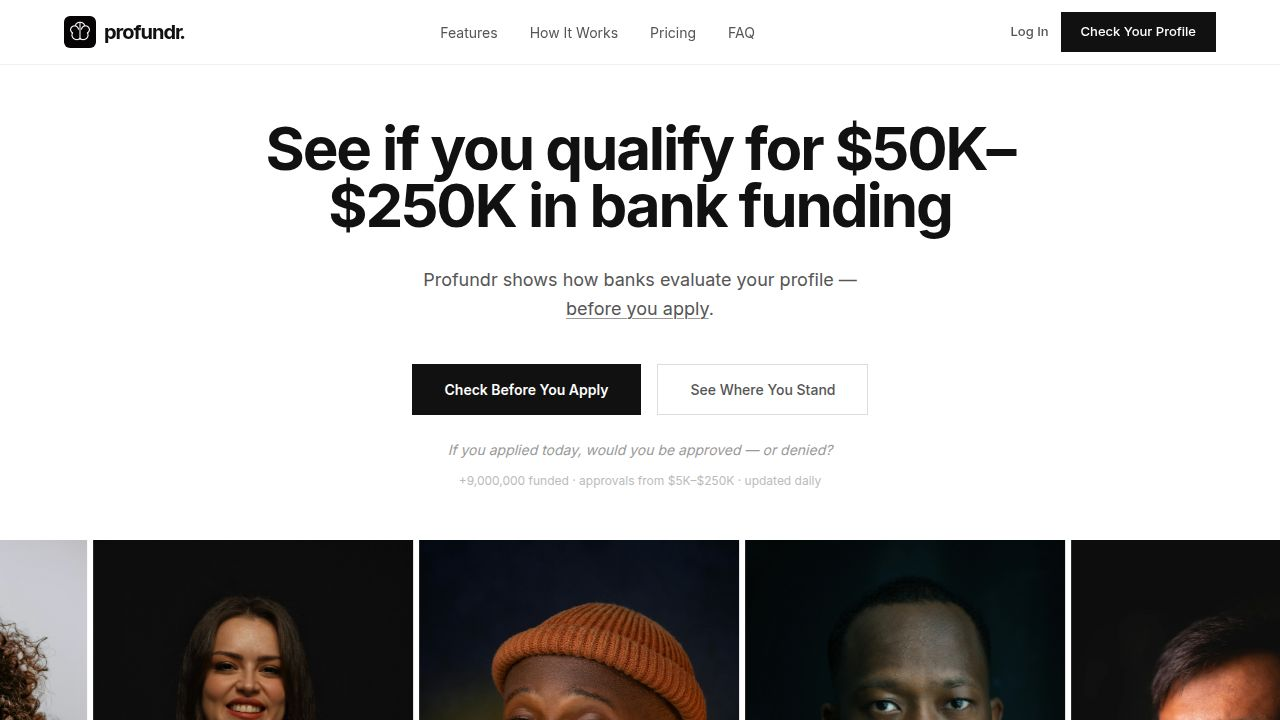
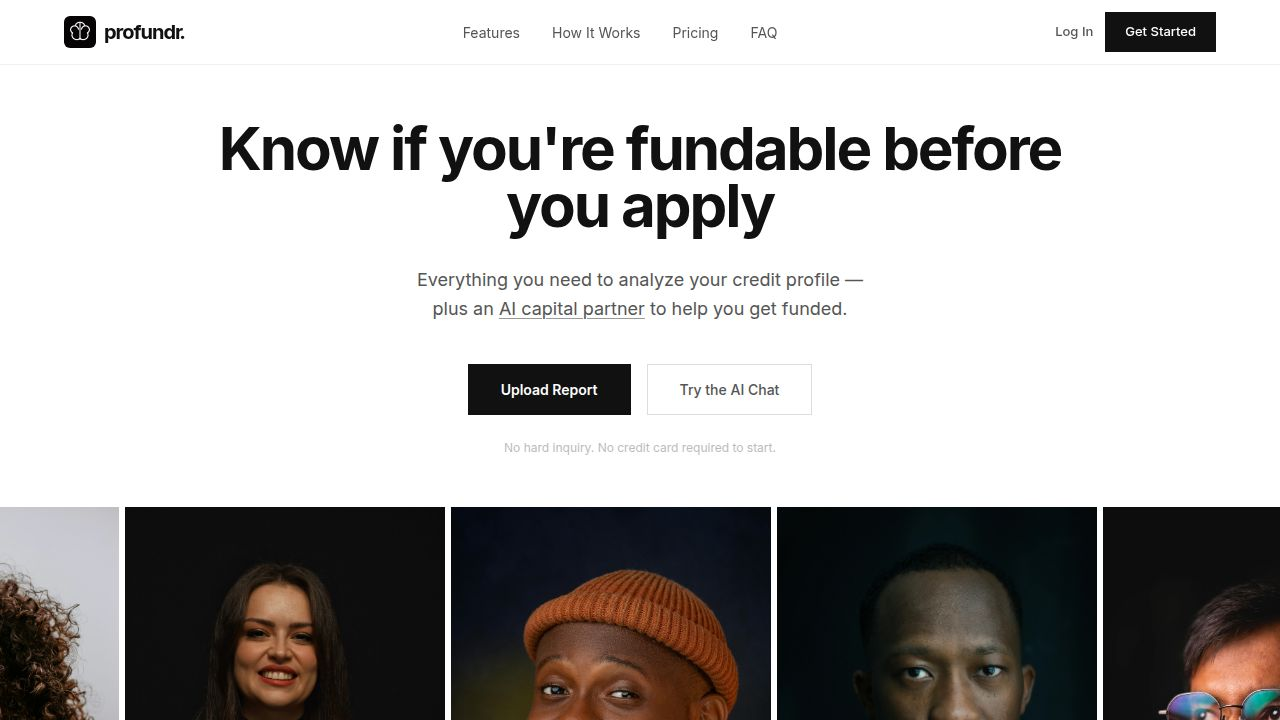
Update website copy to reflect current product messaging
Reverts landing page content to the published version and updates button text from "Check Your Profile" to "Get Started".

Replit-Commit-Author: Agent
Replit-Commit-Session-Id: e8a1cf4c-ae82-492b-91f8-46b21dc24bf7
Replit-Commit-Checkpoint-Type: full_checkpoint
Replit-Commit-Event-Id: ac4d3ec4-bbf0-4598-b30d-846dfed1b4ea
Replit-Commit-Screenshot-Url: https://storage.googleapis.com/screenshot-production-us-central1/e2c02e96-e3a9-4101-9f6c-32d026c7e8ac/e8a1cf4c-ae82-492b-91f8-46b21dc24bf7/kDloWb6
Replit-Helium-Checkpoint-Created: true

diff --git a/client/src/pages/landing.tsx b/client/src/pages/landing.tsx
@@ -4863,13 +4863,11 @@ export default function LandingPage() {
     ];
 
     const faqs = [
-      { q: "How does Profundr help me get funding?", a: "Profundr shows how banks evaluate your profile before you apply. It tells you if you're likely to be approved, how much you may qualify for, and what's holding you back." },
-      { q: "How much funding can I qualify for?", a: "Profundr estimates your potential approval range based on your current profile and shows what's realistically accessible from banks." },
-      { q: "Will this affect my credit?", a: "No. Checking your profile with Profundr does not impact your credit." },
-      { q: "Is this guaranteed approval?", a: "No. But it shows how lenders are likely to evaluate your profile, so you can apply at the right time with higher confidence." },
-      { q: "What if I'm not ready yet?", a: "Profundr shows exactly what's holding you back and what to fix before applying, so you can improve your approval odds." },
-      { q: "Why does this work?", a: "Banks approve profiles based on patterns — balances, inquiries, timing, and history. Profundr analyzes those same signals before you apply." },
-      { q: "When should I check my profile?", a: "Before every application. Timing and profile signals change constantly — and applying at the wrong time can reduce your approval odds instantly." },
+      { q: "Is this a lender?", a: "No. Profundr is a capital intelligence platform. We analyze your credit and financial profile to show you where you stand, what to fix, and which lenders are most likely to approve you. We never lend money or run hard inquiries." },
+      { q: "How does the AIS score work?", a: "Your Approval Index Score is calculated from 23 data points that banks evaluate during underwriting — including utilization, payment history, account age, inquiry velocity, and derogatory marks. Upload your bureau report and get your score in seconds." },
+      { q: "What makes this different from Credit Karma?", a: "Credit Karma shows you a Vantage score and serves you ads. Profundr analyzes your full bureau data the way a bank underwriter would, generates FCRA-compliant dispute letters, runs capital simulations, and matches you with lenders based on real approval data." },
+      { q: "Is my data safe?", a: "Yes. All data is encrypted with AES-256 at rest and TLS 1.3 in transit. Your information is never sold. You can request full data deletion at any time." },
+      { q: "What's included in each plan?", a: "Basic ($25/mo) includes AI chat and your AIS score. Repair ($50/mo) adds the Repair Center and dispute letters. Capital ($150/mo) unlocks everything including the Capital Simulator, Lender Match, Funding Timeline, and Community Intelligence." },
     ];
 
     return (
@@ -4901,7 +4899,7 @@ export default function LandingPage() {
                 className="hidden sm:inline-block px-5 py-2.5 bg-[#111] text-white text-[13px] font-medium hover:bg-[#333] transition-colors"
                 data-testid="front-btn-get-started"
               >
-                Check Your Profile
+                Get Started
               </button>
               <button
                 onClick={() => setMobileMenuOpen(!mobileMenuOpen)}
@@ -4924,7 +4922,7 @@ export default function LandingPage() {
               <a href="#faq" onClick={() => setMobileMenuOpen(false)} className="block text-[15px] text-[#555]">FAQ</a>
               <div className="pt-2 border-t border-[#f0f0f0] flex flex-col gap-3">
                 <button onClick={() => { setMobileMenuOpen(false); setShowFrontPage(false); }} className="text-[15px] text-[#555] text-left" data-testid="front-mobile-login">Log In</button>
-                <button onClick={() => { setMobileMenuOpen(false); window.location.href = '/subscription'; }} className="w-full py-3 bg-[#111] text-white text-[14px] font-semibold" data-testid="front-mobile-get-started">Check Your Profile</button>
+                <button onClick={() => { setMobileMenuOpen(false); window.location.href = '/subscription'; }} className="w-full py-3 bg-[#111] text-white text-[14px] font-semibold" data-testid="front-mobile-get-started">Get Started</button>
               </div>
             </div>
           )}
@@ -4933,10 +4931,10 @@ export default function LandingPage() {
         <section className="pt-[115px] sm:pt-[120px] pb-[40px] sm:pb-[50px] px-5 sm:px-6" data-testid="front-hero">
           <div className="max-w-[900px] mx-auto text-center">
             <h1 className="text-[36px] sm:text-[50px] md:text-[60px] text-[#111] leading-[1.08] sm:leading-[0.95] mb-4 sm:mb-8 max-w-[300px] sm:max-w-none mx-auto" style={{ fontFamily: "'Inter', system-ui, sans-serif", fontWeight: 900, letterSpacing: "-0.035em" }} data-testid="text-front-hero-headline">
-              See if you qualify for $50K–$250K in bank funding
+              Know if you're fundable before you apply
             </h1>
             <p className="text-[15px] sm:text-[18px] text-[#555] leading-[1.7] sm:leading-[1.6] max-w-[340px] sm:max-w-[480px] mx-auto mb-8 sm:mb-10" style={{ fontFamily: "'Inter', system-ui, sans-serif" }} data-testid="text-front-hero-sub">
-              Profundr shows how banks evaluate your profile — <span className="underline underline-offset-[3px] decoration-[1px] decoration-[#999]">before you apply</span>.
+              Everything you need to analyze your credit profile — plus an <span className="underline underline-offset-[3px] decoration-[1px] decoration-[#999]">AI capital partner</span> to help you get funded.
             </p>
             <div className="flex flex-col sm:flex-row items-center justify-center gap-1 sm:gap-4 mb-5 sm:mb-6 w-full sm:max-w-none mx-auto">
               <button
@@ -4944,18 +4942,17 @@ export default function LandingPage() {
                 className="px-8 py-3 sm:py-3.5 bg-[#111] border border-[#111] text-white text-[14px] font-semibold hover:bg-[#333] transition-colors"
                 data-testid="front-btn-upload-hero"
               >
-                Check Before You Apply
+                Upload Report
               </button>
               <button
                 onClick={() => { setShowFrontPage(false); }}
                 className="px-8 py-2.5 sm:py-3.5 text-[#555] text-[14px] font-medium sm:border sm:border-[#ddd] sm:hover:bg-[#f8f8f8] transition-colors"
                 data-testid="front-btn-try-chat"
               >
-                See Where You Stand
+                Try the AI Chat
               </button>
             </div>
-            <p className="text-[13px] sm:text-[14px] text-[#999] italic mb-3">If you applied today, would you be approved — or denied?</p>
-            <p className="text-[12px] text-[#bbb]">+9,000,000 funded · approvals from $5K–$250K · updated daily</p>
+            <p className="text-[12px] text-[#bbb]">No hard inquiry. No credit card required to start.</p>
           </div>
         </section>
 
@@ -5013,8 +5010,8 @@ export default function LandingPage() {
         <section id="how-it-works" className="py-12 sm:py-16 px-5 sm:px-6 scroll-mt-16" style={{ backgroundColor: "#e8e5e0" }} data-testid="front-newsletter">
           <div className="max-w-[1000px] mx-auto flex flex-col md:flex-row items-center md:items-center justify-between gap-6 sm:gap-8">
             <div className="max-w-[420px] text-center md:text-left">
-              <h3 className="text-[20px] sm:text-[24px] font-black text-[#111] leading-[1.15] mb-3" style={{ fontFamily: "'Inter', system-ui, sans-serif" }}>Banks approve profiles, not people</h3>
-              <p className="text-[14px] sm:text-[15px] text-[#555] leading-[1.7] sm:leading-[1.6]">Every week, we show real founders how to build the profile banks say yes to — with strategy, timing, and tools you can actually use.</p>
+              <h3 className="text-[20px] sm:text-[24px] font-black text-[#111] leading-[1.15] mb-3" style={{ fontFamily: "'Inter', system-ui, sans-serif" }}>You already know more than you think</h3>
+              <p className="text-[14px] sm:text-[15px] text-[#555] leading-[1.7] sm:leading-[1.6]">Every week, we break down how real founders turn credit into capital, with strategy and tools you can actually use.</p>
             </div>
             <div className="flex flex-col sm:flex-row w-full md:w-auto gap-2 sm:gap-0">
               <input
@@ -5040,7 +5037,7 @@ export default function LandingPage() {
               bg: "linear-gradient(135deg, #5a7a50 0%, #3d5c3a 25%, #2a4a35 50%, #1a3a2e 75%, #0f2b22 100%)",
               gradientBase: "#1a3a2e",
               title: "AIS Score",
-              desc: "Your Approval Intelligence Score — 23 data points analyzed to show how banks evaluate your profile before you apply.",
+              desc: "Your Approval Intelligence Score — 23 data points analyzed to predict real lender decisions.",
               photo: "/founders/founder3.jpg",
               cards: [
                 <div key="ais1" className="bg-white rounded-xl p-5 shadow-2xl w-[210px] shrink-0">
@@ -5067,7 +5064,7 @@ export default function LandingPage() {
               bg: "linear-gradient(135deg, #6b8f71 0%, #4a7a5a 25%, #2d5a40 50%, #1a4030 75%, #0f2a1e 100%)",
               gradientBase: "#1a4030",
               title: "Credit Repair",
-              desc: "Generate FCRA-compliant dispute letters and track deletions — remove what's blocking your approval.",
+              desc: "Generate FCRA-compliant dispute letters and track deletions across all three bureaus.",
               photo: "/founders/founder1.jpg",
               cards: [
                 <div key="cr1" className="bg-white rounded-xl p-5 shadow-2xl w-[210px] shrink-0">
@@ -5097,7 +5094,7 @@ export default function LandingPage() {
               bg: "linear-gradient(135deg, #5a7a8a 0%, #3d5c6e 25%, #2a4555 50%, #1a3040 75%, #0f1e2e 100%)",
               gradientBase: "#1a3040",
               title: "Capital Matching",
-              desc: "See which lenders approve your profile — matched to real approval data, not ads.",
+              desc: "Get matched with real lenders based on your AIS score, bureau data, and funding profile.",
               photo: "/founders/founder8.jpg",
               cards: [
                 <div key="cm1" className="bg-white rounded-xl p-5 shadow-2xl w-[210px] shrink-0">
@@ -5291,7 +5288,7 @@ export default function LandingPage() {
             <div className="flex sm:hidden gap-x-8" style={{ animation: "scrollProof 25s linear infinite", width: "max-content", WebkitAnimation: "scrollProof 25s linear infinite" }}>
               {[...Array(2)].map((_, setIdx) => (
                 <div key={setIdx} className="flex gap-x-8">
-                  {["23 Data Points Analyzed", "FCRA-Compliant Letters", "Real Lender Matching", "Bank-Level Encryption", "No Hard Inquiries"].map((item) => (
+                  {["23 Data Points Analyzed", "FCRA-Compliant Letters", "Real Lender Matching", "AES-256 Encryption", "No Hard Inquiries"].map((item) => (
                     <span key={item} className="text-[11px] text-[#999] font-medium tracking-wide uppercase flex items-center gap-2 shrink-0 whitespace-nowrap">
                       <svg width="14" height="14" viewBox="0 0 16 16" fill="none" className="shrink-0"><path d="M4 8l3 3 5-5" stroke="#999" strokeWidth="1.5" strokeLinecap="round" strokeLinejoin="round" /></svg>
                       {item}
@@ -5301,7 +5298,7 @@ export default function LandingPage() {
               ))}
             </div>
             <div className="hidden sm:contents">
-              {["23 Data Points Analyzed", "FCRA-Compliant Letters", "Real Lender Matching", "Bank-Level Encryption", "No Hard Inquiries"].map((item) => (
+              {["23 Data Points Analyzed", "FCRA-Compliant Letters", "Real Lender Matching", "AES-256 Encryption", "No Hard Inquiries"].map((item) => (
                 <span key={item} className="text-[12px] text-[#999] font-medium tracking-wide uppercase flex items-center gap-2 shrink-0 whitespace-nowrap">
                   <svg width="14" height="14" viewBox="0 0 16 16" fill="none" className="shrink-0"><path d="M4 8l3 3 5-5" stroke="#999" strokeWidth="1.5" strokeLinecap="round" strokeLinejoin="round" /></svg>
                   {item}
@@ -5314,7 +5311,7 @@ export default function LandingPage() {
         <section id="features" className="py-[50px] sm:py-[80px] px-5 sm:px-6 bg-white scroll-mt-16" data-testid="front-operating-system">
           <div className="max-w-[900px] mx-auto text-center">
             <h2 className="text-[28px] sm:text-[36px] md:text-[48px] text-[#111] leading-[1.1] sm:leading-[1.05] mb-4" style={{ fontFamily: "'Inter', system-ui, sans-serif", fontWeight: 900, letterSpacing: "-0.03em" }}>The operating system for financial identity</h2>
-            <p className="text-[14px] sm:text-[16px] text-[#888] max-w-[320px] sm:max-w-[500px] mx-auto leading-[1.7] sm:leading-[1.6]">Profundr brings your credit, capital, and funding journey into one system — so you can see what banks see before you apply.</p>
+            <p className="text-[14px] sm:text-[16px] text-[#888] max-w-[320px] sm:max-w-[500px] mx-auto leading-[1.7] sm:leading-[1.6]">Profundr brings your entire credit, capital, and funding journey into one unified system. Founders grow faster when everything works together.</p>
           </div>
         </section>
 
@@ -5365,7 +5362,7 @@ export default function LandingPage() {
                   <span key={r} className="text-[12px] px-3 py-1.5 bg-[#f5f5f5] text-[#666] font-medium rounded-full flex items-center gap-1.5"><span className="w-4 h-4 rounded-full bg-[#ddd] shrink-0" />{r}</span>
                 ))}
               </div>
-              <div className="text-center sm:text-left"><button className="px-5 py-2.5 bg-[#111] text-white text-[13px] font-semibold hover:bg-[#333] transition-colors" data-testid="btn-watch-demo-1">Check Your Profile</button></div>
+              <div className="text-center sm:text-left"><button className="px-5 py-2.5 bg-[#111] text-white text-[13px] font-semibold hover:bg-[#333] transition-colors" data-testid="btn-watch-demo-1">Get Started</button></div>
             </div>
           </div>
         </section>
@@ -5505,8 +5502,8 @@ export default function LandingPage() {
           <div className="max-w-[1100px] mx-auto grid grid-cols-1 md:grid-cols-3 gap-4 sm:gap-5">
             {[
               { icon: <svg width="20" height="20" viewBox="0 0 24 24" fill="none"><path d="M12 2L3 7v10l9 5 9-5V7l-9-5z" stroke="#111" strokeWidth="1.5" strokeLinejoin="round"/><path d="M12 12v10M12 12L3 7M12 12l9-5" stroke="#111" strokeWidth="1.5"/></svg>, title: "AES-256 encrypted", desc: "Your bureau data is encrypted end-to-end with bank-level security. We never share or sell your information." },
-              { icon: <svg width="20" height="20" viewBox="0 0 24 24" fill="none"><circle cx="12" cy="8" r="4" stroke="#111" strokeWidth="1.5"/><path d="M4 20c0-4 4-7 8-7s8 3 8 7" stroke="#111" strokeWidth="1.5" strokeLinecap="round"/></svg>, title: "Human support 24/7", desc: "Real credit and funding specialists who understand founder finance — available whenever you need them." },
-              { icon: <svg width="20" height="20" viewBox="0 0 24 24" fill="none"><rect x="3" y="3" width="18" height="18" rx="2" stroke="#111" strokeWidth="1.5"/><path d="M7 12h2v5H7zM11 8h2v9h-2zM15 10h2v7h-2z" fill="#111"/></svg>, title: "Built to last", desc: "Powering millions in funded capital with a stable, secure platform founders rely on." },
+              { icon: <svg width="20" height="20" viewBox="0 0 24 24" fill="none"><circle cx="12" cy="8" r="4" stroke="#111" strokeWidth="1.5"/><path d="M4 20c0-4 4-7 8-7s8 3 8 7" stroke="#111" strokeWidth="1.5" strokeLinecap="round"/></svg>, title: "Human support 24/7", desc: "Get help from real credit and funding specialists who understand founder finance. Support is available at any hour." },
+              { icon: <svg width="20" height="20" viewBox="0 0 24 24" fill="none"><rect x="3" y="3" width="18" height="18" rx="2" stroke="#111" strokeWidth="1.5"/><path d="M7 12h2v5H7zM11 8h2v9h-2zM15 10h2v7h-2z" fill="#111"/></svg>, title: "Built to last", desc: "Profundr powers millions in funded capital with a stable, secure platform you can rely on as you grow." },
             ].map((item) => (
               <div key={item.title} className="border border-[#e8e8e8] rounded-2xl p-6 sm:p-8 bg-white text-center sm:text-left">
                 <div className="w-12 h-12 rounded-xl border border-[#e8e8e8] flex items-center justify-center mb-6 sm:mb-16 mx-auto sm:mx-0">{item.icon}</div>
@@ -5528,7 +5525,7 @@ export default function LandingPage() {
           const nextIdx = testIdx === testimonials.length - 1 ? 0 : testIdx + 1;
           return (
             <section className="py-[50px] sm:py-[80px] bg-[#111]" data-testid="front-testimonials-kajabi">
-              <h2 className="text-[30px] sm:text-[32px] md:text-[42px] text-white leading-[1.1] sm:leading-[1.05] mb-8 sm:mb-12 px-5 sm:px-6 text-center" style={{ fontFamily: "'Inter', system-ui, sans-serif", fontWeight: 900, letterSpacing: "-0.03em" }}>Founders who checked before they applied</h2>
+              <h2 className="text-[30px] sm:text-[32px] md:text-[42px] text-white leading-[1.1] sm:leading-[1.05] mb-8 sm:mb-12 px-5 sm:px-6 text-center" style={{ fontFamily: "'Inter', system-ui, sans-serif", fontWeight: 900, letterSpacing: "-0.03em" }}>Why founders choose Profundr</h2>
 
               <div className="md:hidden px-5">
                 <div className="rounded-2xl overflow-hidden mb-6">
@@ -5598,12 +5595,12 @@ export default function LandingPage() {
         <section id="pricing" className="py-[50px] sm:py-[80px] px-5 sm:px-6 bg-white border-t border-[#f0f0f0] scroll-mt-16" data-testid="front-pricing">
           <div className="max-w-[1100px] mx-auto">
             <h2 className="text-[28px] sm:text-[36px] md:text-[46px] text-[#111] leading-[1.1] sm:leading-[1.05] mb-3 text-center" style={{ fontFamily: "'Inter', system-ui, sans-serif", fontWeight: 900, letterSpacing: "-0.03em" }}>Simple, transparent pricing</h2>
-            <p className="text-[14px] sm:text-[16px] text-[#888] text-center mb-10 sm:mb-14 max-w-[400px] mx-auto leading-[1.6]">See how banks see you — then choose the plan that fits where you are.</p>
+            <p className="text-[14px] sm:text-[16px] text-[#888] text-center mb-10 sm:mb-14 max-w-[400px] mx-auto leading-[1.6]">Choose the plan that matches where you are in your funding journey.</p>
             <div className="grid grid-cols-1 md:grid-cols-3 gap-4 sm:gap-5">
               {[
-                { name: "Basic", price: "$25", period: "/mo", desc: "See how banks evaluate your profile.", features: ["AI capital chat", "AIS score analysis", "23-point credit breakdown", "Bureau report upload"], cta: "Check Your Profile" },
-                { name: "Repair", price: "$50", period: "/mo", desc: "Fix what's blocking your approval.", features: ["Everything in Basic", "FCRA dispute letter generator", "Bureau deletion tracking", "Automated follow-ups", "Success rate analytics"], popular: true, cta: "Start Repair" },
-                { name: "Capital", price: "$150", period: "/mo", desc: "Full capital operating system.", features: ["Everything in Repair", "Capital Simulator", "Lender Match Engine", "Funding Timeline", "Community Intelligence", "Priority support"], cta: "Get Capital" },
+                { name: "Basic", price: "$25", period: "/mo", desc: "Get your AIS score and AI chat.", features: ["AI capital chat", "AIS score analysis", "23-point credit breakdown", "Bureau report upload"], cta: "Start Basic" },
+                { name: "Repair", price: "$50", period: "/mo", desc: "Fix your credit with precision.", features: ["Everything in Basic", "FCRA dispute letter generator", "Bureau deletion tracking", "Automated follow-ups", "Success rate analytics"], popular: true, cta: "Start Repair" },
+                { name: "Capital", price: "$150", period: "/mo", desc: "Full capital operating system.", features: ["Everything in Repair", "Capital Simulator", "Lender Match Engine", "Funding Timeline", "Community Intelligence", "Priority support"], cta: "Start Capital" },
               ].map((plan) => (
                 <div key={plan.name} className={`border rounded-2xl p-6 sm:p-8 relative ${plan.popular ? "border-[#111] bg-[#fafafa]" : "border-[#e8e8e8] bg-white"}`} data-testid={`pricing-${plan.name.toLowerCase()}`}>
                   {plan.popular && <div className="absolute -top-3 left-1/2 -translate-x-1/2 px-3 py-1 bg-[#111] text-white text-[10px] font-semibold uppercase tracking-wider">Most Popular</div>}
@@ -5651,8 +5648,8 @@ export default function LandingPage() {
 
         <section className="py-10 sm:py-6 px-5 sm:px-6 bg-[#111] border-t border-white/10" data-testid="front-cta-bar">
           <div className="max-w-[1100px] mx-auto flex flex-col sm:flex-row items-center justify-between gap-6 sm:gap-4">
-            <h3 className="text-[22px] sm:text-[22px] md:text-[28px] font-bold text-white text-center sm:text-left leading-[1.2]" style={{ letterSpacing: "-0.02em" }}>Stop Guessing. Start Qualifying.</h3>
-            <button onClick={() => { setShowFrontPage(false); setAutoSendFile(true); handleUploadClick(); }} className="px-5 py-2.5 bg-white text-[#111] text-[13px] font-semibold hover:bg-white/90 transition-colors shrink-0" data-testid="front-btn-final-cta">Check Before You Apply</button>
+            <h3 className="text-[22px] sm:text-[22px] md:text-[28px] font-bold text-white text-center sm:text-left leading-[1.2]" style={{ letterSpacing: "-0.02em" }}>Build your financial identity on Profundr</h3>
+            <button onClick={() => { setShowFrontPage(false); setAutoSendFile(true); handleUploadClick(); }} className="px-5 py-2.5 bg-white text-[#111] text-[13px] font-semibold hover:bg-white/90 transition-colors shrink-0" data-testid="front-btn-final-cta">Start Free Trial</button>
           </div>
         </section>
 
